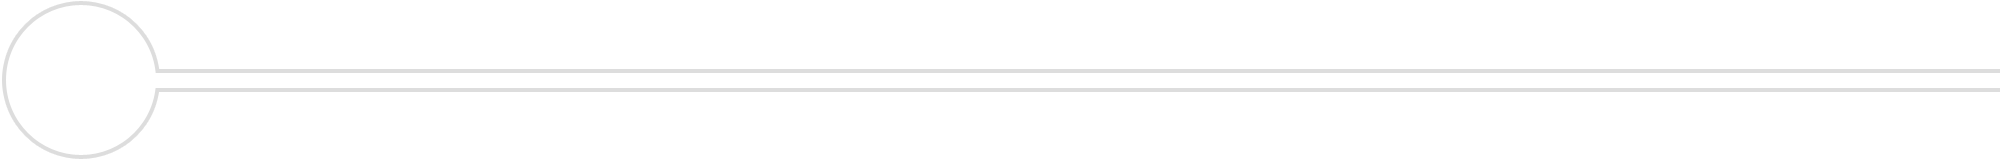
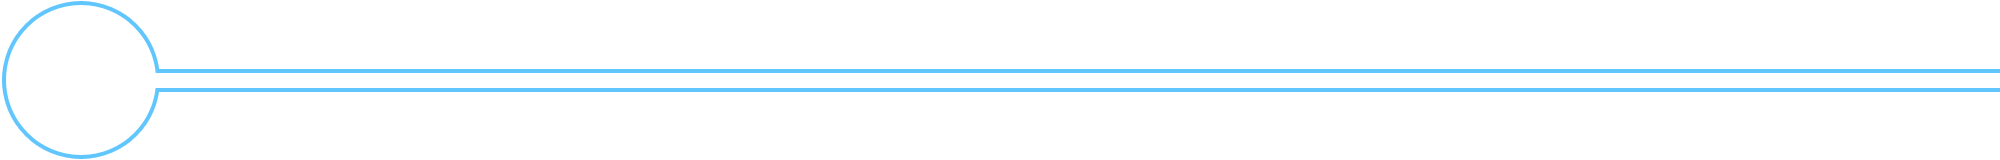
contact us page is in.  think we're good to close zee branch, and push live

diff --git a/media/css/marketing_site.css b/media/css/marketing_site.css
@@ -231,6 +231,7 @@ input {
 .employee {
 	display: block;
 	padding: 40px 10%;
+	padding-top: 0px;
 	position: relative;
 	width: 80%;
 	z-index: 999;
@@ -240,7 +241,7 @@ input {
 	display: block;
 	width: 30%;
 	height: 200px;
-	left: 10%;
+	left: 0%;
 	top: 20px;
 	position: absolute;
 	background: url("../images/bio-picture-bubble.png");
@@ -249,19 +250,27 @@ input {
 	z-index: 1001;
 	clear: none;
 }
+.picture_frame .picture img {
+	margin: 6px;
+	border-radius: 120px;
+	-moz-border-radius: 120px;
+	overflow:hidden;
+}
 
 .bio {
+	font-size: 18px;
 	clear: none;
 	position: relative;
 	display: block;
 	top: 0px;
-	left: 37%;
-	width: 60%;
+	left: 25%;
+	margin-left: -4px;
+	width: 80%;
 	padding: 20px;
 	background-color: #FFF;
 	border-radius: 12px;
 	-moz-border-radius: 12px;
-	border: 4px solid #DDD;
+	border: 4px solid #60C6FD;
 	z-index: 1000;	
 }
 .bio .name {

diff --git a/mycelium/apps/marketing_site/templates/marketing_site/about_us.html b/mycelium/apps/marketing_site/templates/marketing_site/about_us.html
@@ -11,11 +11,11 @@
 {% for e in all_employees %}
 <div class="employee">
 	<div class="picture_frame"
-		<div class="picture"><img src="{% thumbnail e.picture 60x60 as t %}{{t.url}}{% endthumbnail %}"/></div>
+		<div class="picture">{% thumbnail e.picture "149x149" as t %}<img src="{{t.url}}"/>{% empty %}{% endthumbnail %}</div>
 	</div>
 	<div class="bio">
 		<div class="name">{{e.full_name}}</div>
-		<div class="bio_text">{{e.bio}}</div>
+		<div class="bio_text">{{e.bio|safe}}</div>
 	</div>
 </div>
 {% endfor %}

diff --git a/mycelium/urls.py b/mycelium/urls.py
@@ -16,5 +16,6 @@ urlpatterns = patterns('',
     (r'^blog/$', 'django.views.generic.simple.redirect_to', {'url': "http://goodrain.agoodcloud.com"}, 'blog_home'),
     (r'^admin/doc/', include('django.contrib.admindocs.urls')),
     (r'^admin/', include(admin.site.urls)),
-    url(r'^', include('cms.urls')),    
+    (r'^', include('sorl.thumbnail.urls')),
+    url(r'^', include('cms.urls')),
 )

diff --git a/mycelium/apps/marketing_site/models.py b/mycelium/apps/marketing_site/models.py
@@ -15,3 +15,6 @@ class GoodCloudEmployee(TimestampModelMixin):
 
     def __unicode__(self):
         return self.full_name
+        
+    class Meta(object):
+        ordering = ("user__first_name","user__last_name")
